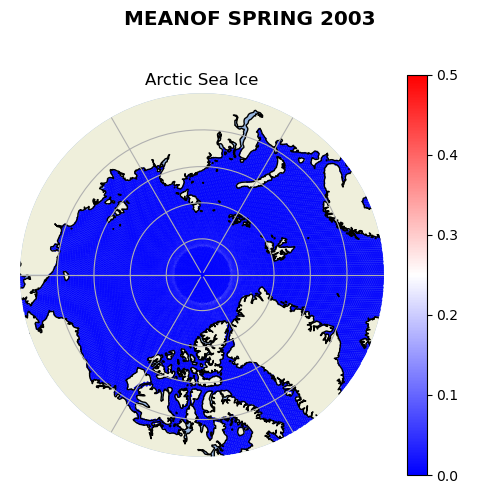
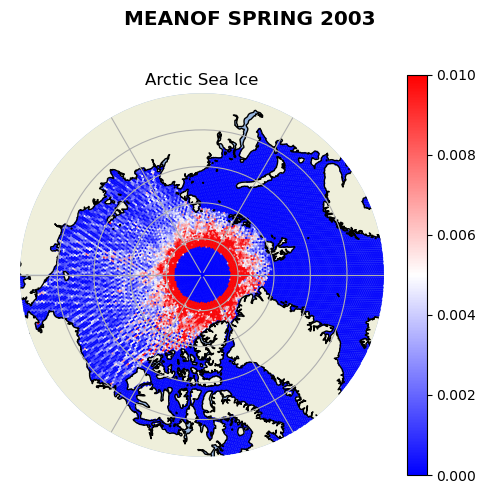
plotted meanof with vmax 0.01

diff --git a/practice_plotting/config.py b/practice_plotting/config.py
@@ -52,7 +52,7 @@ VMIN = 0
 #VMAX = 25      # for spring 2003 - there are not many cells that go above 45 samples;
 #VMAX = 15000  # for ALL FILES - sampleof the max is 46893, but there are not that many tracks that go about 15000 samples; 20000 looks ok 
 #VMAX = 4000    # for spring 2003
-VMAX = 0.5 # for meanof
+VMAX = 0.01 # for meanof
 #VMAX = 1   # for stdof
 
 # Animation speed
